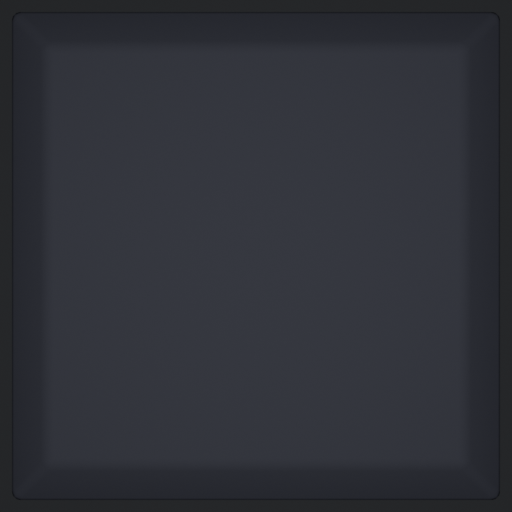
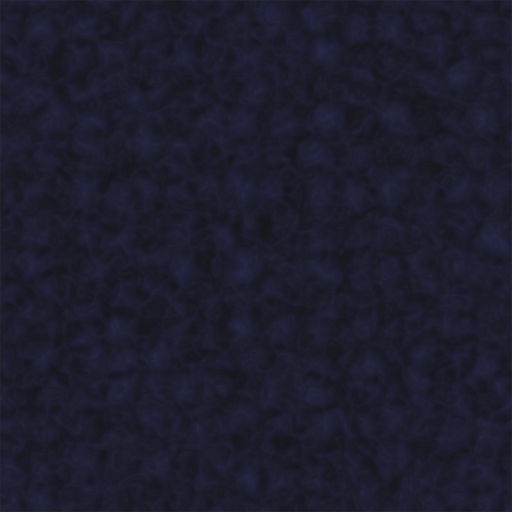
Adding some albedo/normal rendering for walls.

diff --git a/www/gfx/graphics.js b/www/gfx/graphics.js
@@ -61,6 +61,10 @@ class Graphics {
         this.shipNormalTex = Texture.fromImage(assets.shipNormalImage, false);
         this.floorAlbedoTex = Texture.fromImage(assets.floorAlbedoImage, true);
         this.floorNormalTex = Texture.fromImage(assets.floorNormalImage, false);
+        this.wallAlbedoTex = Texture.fromImage(assets.wallAlbedoImage, true);
+        this.wallNormalTex = Texture.fromImage(assets.wallNormalImage, false);
+        this.wallTriangleAlbedoTex = Texture.fromImage(assets.wallTriangleAlbedoImage, true);
+        this.wallTriangleNormalTex = Texture.fromImage(assets.wallTriangleNormalImage, false);
         this.flagTex = Texture.fromImage(assets.flagImage, true);
     
         const resizeObserver = new ResizeObserver(() => {
@@ -119,8 +123,15 @@ class Graphics {
         const rows = game.map.tileRows;
         for (let r = 0; r < rows.length; r++) {
             for (let c = 0; c < rows[r].length; c++) {
-                switch(rows[r][c].type) {
-                    case Tile.EMPTY:
+                const type = rows[r][c].type;
+                switch (type) {
+                    case Tile.WALL:
+                        this.renderer.drawTexture(c * conf.TILE_SIZE, r * conf.TILE_SIZE, conf.TILE_SIZE, conf.TILE_SIZE, this.wallNormalTex);
+                        break;
+                    case Tile.WALL_TRIANGLE:
+                        this.renderer.drawTexture(c * conf.TILE_SIZE, r * conf.TILE_SIZE, conf.TILE_SIZE, conf.TILE_SIZE, this.wallTriangleNormalTex);
+                        break;
+                    default:
                         this.renderer.drawTexture(c * conf.TILE_SIZE, r * conf.TILE_SIZE, conf.TILE_SIZE, conf.TILE_SIZE, this.floorNormalTex);
                         break;
                 }
@@ -138,8 +149,15 @@ class Graphics {
 
         for (let r = 0; r < rows.length; r++) {
             for (let c = 0; c < rows[r].length; c++) {
-                switch(rows[r][c].type) {
-                    case Tile.EMPTY:
+                const type = rows[r][c].type;
+                switch (type) {
+                    case Tile.WALL:
+                        this.renderer.drawTexture(c * conf.TILE_SIZE, r * conf.TILE_SIZE, conf.TILE_SIZE, conf.TILE_SIZE, this.wallAlbedoTex);
+                        break;
+                    case Tile.WALL_TRIANGLE:
+                        this.renderer.drawTexture(c * conf.TILE_SIZE, r * conf.TILE_SIZE, conf.TILE_SIZE, conf.TILE_SIZE, this.wallTriangleAlbedoTex);
+                        break;
+                    default:
                         this.renderer.drawTexture(c * conf.TILE_SIZE, r * conf.TILE_SIZE, conf.TILE_SIZE, conf.TILE_SIZE, this.floorAlbedoTex);
                         break;
                 }
@@ -399,7 +417,7 @@ class Graphics {
             for (let c = 0; c < rows[r].length; c++) {
                 switch(rows[r][c].type) {
                     case Tile.WALL:
-                        this.renderer.drawRect(c * conf.TILE_SIZE, r * conf.TILE_SIZE, conf.TILE_SIZE, conf.TILE_SIZE);
+                        //this.renderer.drawRect(c * conf.TILE_SIZE, r * conf.TILE_SIZE, conf.TILE_SIZE, conf.TILE_SIZE);
                         break;
                     case Tile.WALL_TRIANGLE:
                     case Tile.WALL_TRIANGLE_CORNER:

diff --git a/www/assets.js b/www/assets.js
@@ -2,10 +2,15 @@ import { Shader } from "./gfx/shader.js";
 import { gl } from "./gfx/gl.js";
 import { Font } from "./gfx/text.js";
 
+// TODO: Automate all this for each time a new asset is added
 let shipAlbedoImage;
 let shipNormalImage;
 let floorAlbedoImage;
 let floorNormalImage;
+let wallAlbedoImage;
+let wallNormalImage;
+let wallTriangleAlbedoImage;
+let wallTriangleNormalImage;
 let flagImage;
 
 let shapeVertSrc;
@@ -52,6 +57,12 @@ async function loadAssets() {
 
     floorAlbedoImage = await requestImage("assets/floor.png");
     floorNormalImage = await requestImage("assets/floor_normal.png");
+
+    wallAlbedoImage = await requestImage("assets/wall.png");
+    wallNormalImage = await requestImage("assets/wall_normal.png");
+
+    wallTriangleAlbedoImage = await requestImage("assets/wall_triangle.png");
+    wallTriangleNormalImage = await requestImage("assets/wall_triangle_normal.png");
     
     flagImage = await requestImage("assets/flag.png");
 
@@ -115,6 +126,10 @@ export {
     shipNormalImage,
     floorAlbedoImage,
     floorNormalImage,
+    wallAlbedoImage,
+    wallNormalImage,
+    wallTriangleAlbedoImage,
+    wallTriangleNormalImage,
     shipPixelRatio,
     flagImage,
 

diff --git a/main.go b/main.go
@@ -14,6 +14,7 @@ import (
 // - allocate all short lived javascript objects up front (Vec, Transform, Particle, Color, etc)
 // - load assets in parallel with loading bar
 // - consider using z-depth for layering sprites (maybe X number layers?)
+// - single texture atlas for everything
 // - draw lasers underneath tank
 // - 9 sprites for tank movement
 // - Predicted buffer will fill up if client running faster than server. Reconsider adding some throttling.
@@ -33,6 +34,7 @@ import (
 // - king of the hill, or ctf goal
 
 // GAME IDEAS
+// - swept raycast to calculate light volume so e.g. back side or occluded walls arn't lit up
 // - shift to temporarily boost, draining laser energy
 // - lock on homing missile
 // - orbs with linking laser chain (maybe they wrap walls or orbs explode if laser touches something)

diff --git a/web/delay.go b/web/delay.go
@@ -7,9 +7,9 @@ import (
 )
 
 const (
-	delayMs  = 150
-	jitterMs = 25
-	lossRate = 0.05
+	delayMs  = 0
+	jitterMs = 0
+	lossRate = 0
 )
 
 // Channel for adding artificial delay/jitter to data
